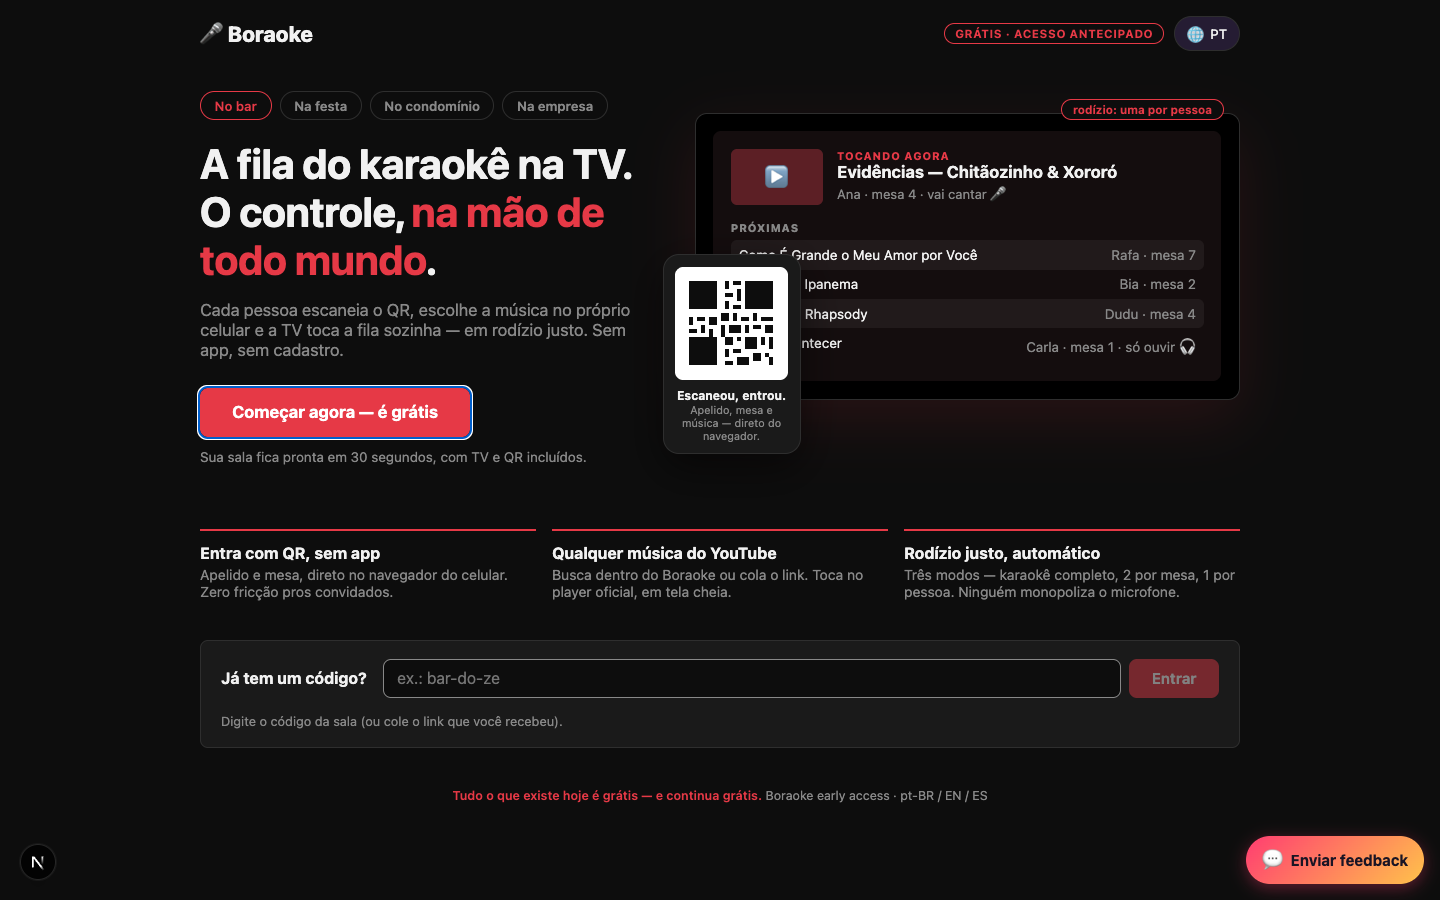
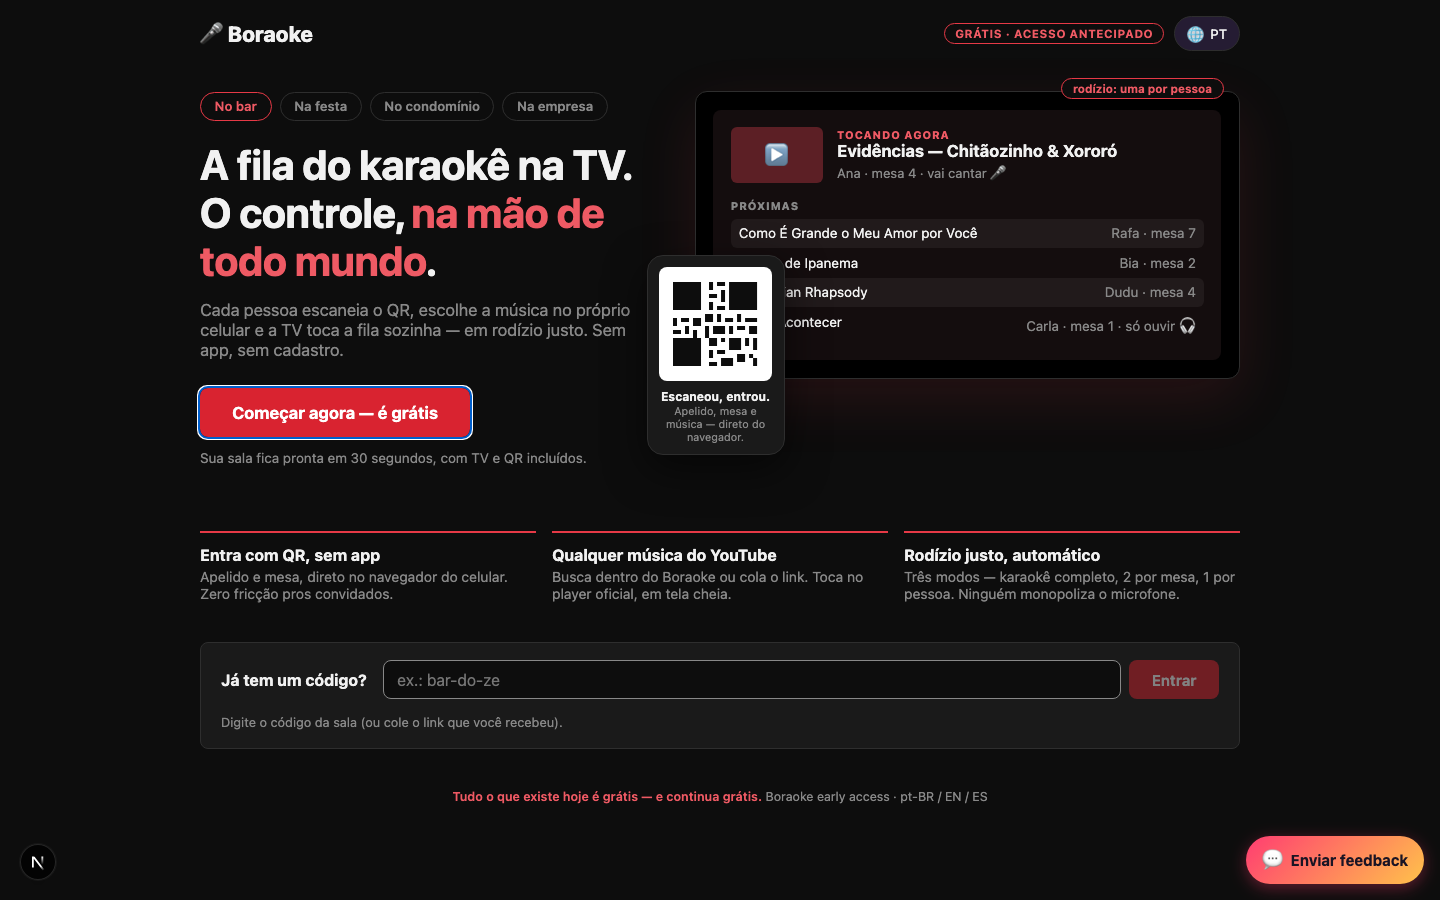
test(TICKET-69): re-capture evidence on the post-TICKET-66 base
Every screenshot predated the accent-token merge, so they showed the pre-split
colours; one desktop shot had also been captured in English by accident. All
re-captured on the merged base, in the right locales.

A delegated attempt produced a completely unstyled capture (the CSS module had
not painted when the shot was taken — the same stale-.next trap that bit three
agents on this ticket). That artifact was discarded rather than committed, and
the capture redone with an explicit "has the stylesheet painted?" gate before
every screenshot.

Measured live: CTA background rgb(217,35,48) = --accent-strong (the TICKET-66
fix arriving through the global .btn-primary); h1 highlight / active chip /
footer promise all rgb(238,90,100) = --accent-text; no horizontal overflow at
1440/390/320; CTA above the fold at both widths; 0 iframes, no off-origin
requests, no console errors.

diff --git a/work/reports/test/TICKET-69-app-tester.md b/work/reports/test/TICKET-69-app-tester.md
@@ -116,3 +116,23 @@ Unchanged and correct — matches the prior full-pass capture: header, wrapping 
 ### Verdict: **PASS, with a residual follow-up**
 
 The nudge delivers a genuine, measurable improvement: the phone card no longer meaningfully touches the first up-next row, and its horizontal intrusion into rows 2–4 dropped by roughly a third (70px → 45.8px). CTA position, fold placement, and both breakpoints' overflow are all unaffected and clean. This is a real step forward, not a wash, so it is not a regression to block on. However the original defect — the phone card visually occluding up-next title text — is only partially resolved: 3 of 4 titles still lose their leading word/fragment behind the card at 1440x900. Recommend one more small nudge (a few more `rem` of `.phone` left offset, or trimming `.phone` width) if full legibility of all four rows is required before this ships; otherwise this is an acceptable, documented residual for a follow-up ticket.
+
+## Final evidence re-capture on the post-TICKET-66 base (by the Ticket Manager)
+
+Every screenshot above this section was captured **before** `origin/main` (TICKET-66's accent-token split) was merged in, so they showed the pre-split colours. One delegated re-capture attempt also produced a completely unstyled `landing-desktop-1440x900.png` — the CSS module had not painted when the shot was taken (the stale-`.next` trap that bit three agents on this ticket). **That broken artifact was discarded, not committed**, and the capture was redone directly with an explicit "has the stylesheet painted?" gate before every screenshot.
+
+All PNGs listed above are now re-captured on the merged base, and `landing-desktop-1440x900.png` / `landing-mobile-390x844.png` are genuinely **pt-BR** (a previous pass had silently captured the desktop one in English via Playwright's default `en-US` Accept-Language).
+
+**Verdict: PASS.** Measured live:
+
+| Check | Observed |
+|---|---|
+| CTA text / href | "Começar agora — é grátis" · `/new` |
+| CTA background | `rgb(217, 35, 48)` — `--accent-strong`, i.e. the TICKET-66 fix arrived via the global `.btn-primary` |
+| h1 highlight / active chip / footer promise colour | `rgb(238, 90, 100)` — `--accent-text` on all three |
+| Horizontal overflow @1440 / @390 / @320 | 1440==1440 · 390==390 · 320==320 — none at any width |
+| CTA above the fold | `bottom` 437.27px @1440x900 · 455.67px @390x844 |
+| `<iframe>` count on `/` | 0 |
+| youtube.com / googleapis.com / ytimg requests | none |
+| Console errors on a clean load | none |
+| Locale captures | EN h1 "The karaoke queue on the TV…" + "Start now — it's free"; ES h1 "La fila del karaoke en la TV…" + "Empezar ahora — es gratis" |
